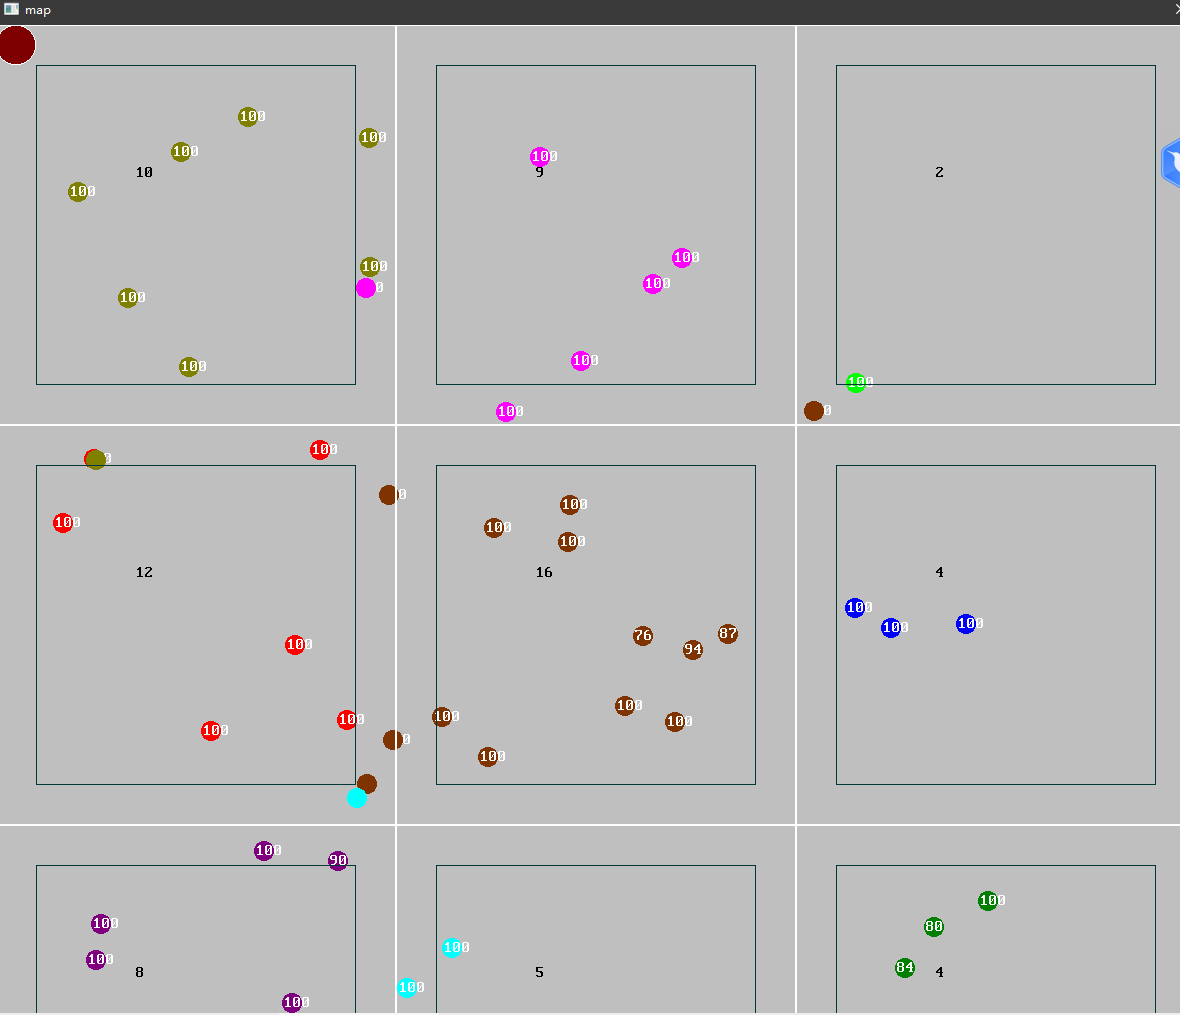
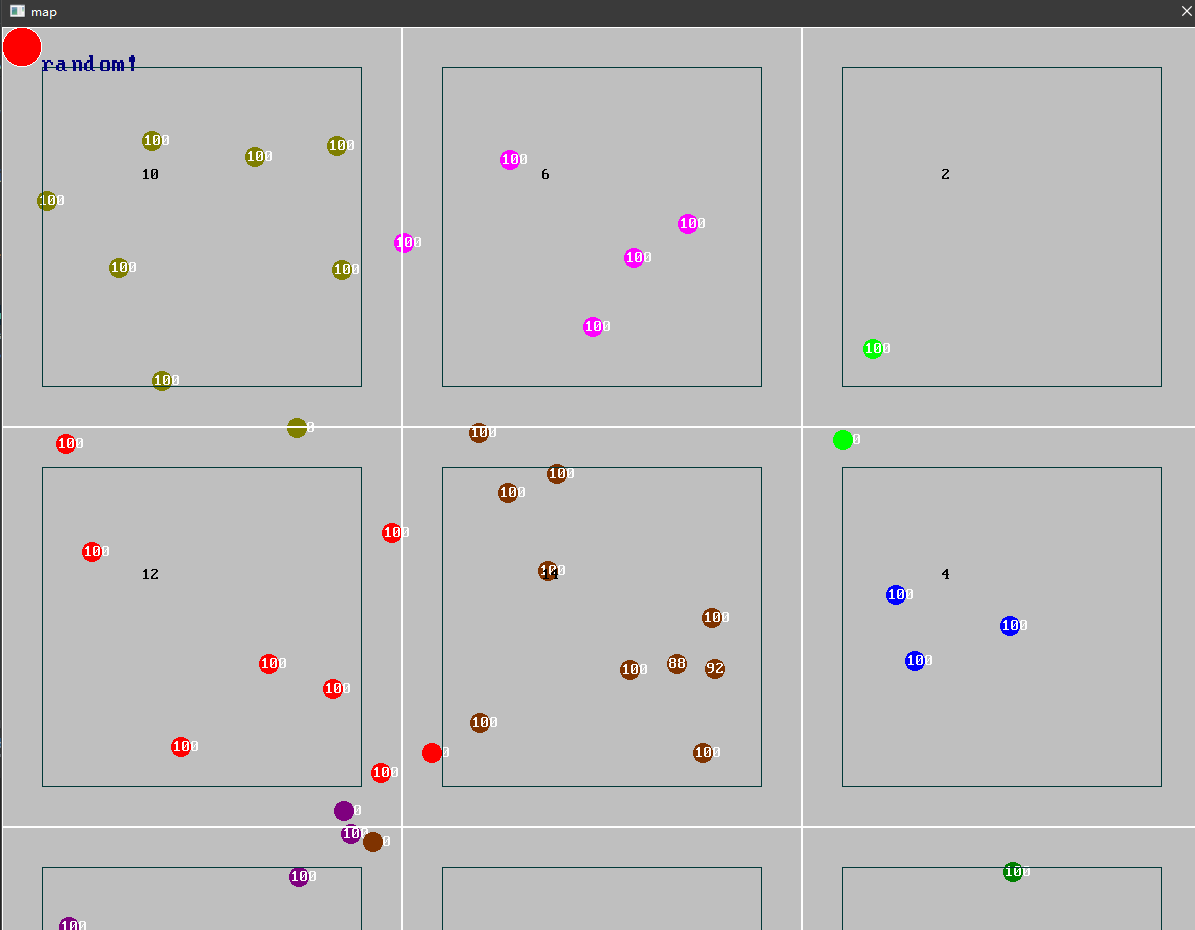
no message

diff --git a/README.md b/README.md
@@ -1,2 +1,11 @@
 # ecsDemo
 利用dogactor，基于ecs，实现的分布式地图、实体移动、战斗的Demo
+##直接编译运行
+
+#
+
+######点击左上角红点，每个区域随机生成N个随机移动的实体，相互靠近的实体会发生攻击并且扣除生命，生命为0，删除实体
+- 实体进入不同的地图区域，会用不同的颜色区分
+- 一个地图代表一个actor,实体会在地图之间进行无缝切换
+- 实体在两区域边界，会产生副本，利用副本的移动、战斗行为和主体一致
+# <img align="right" src="https://github.com/wwj31/ecsDemo/raw/master/assets/demo.jpg" alt="map Demo" title="map Demo" />
